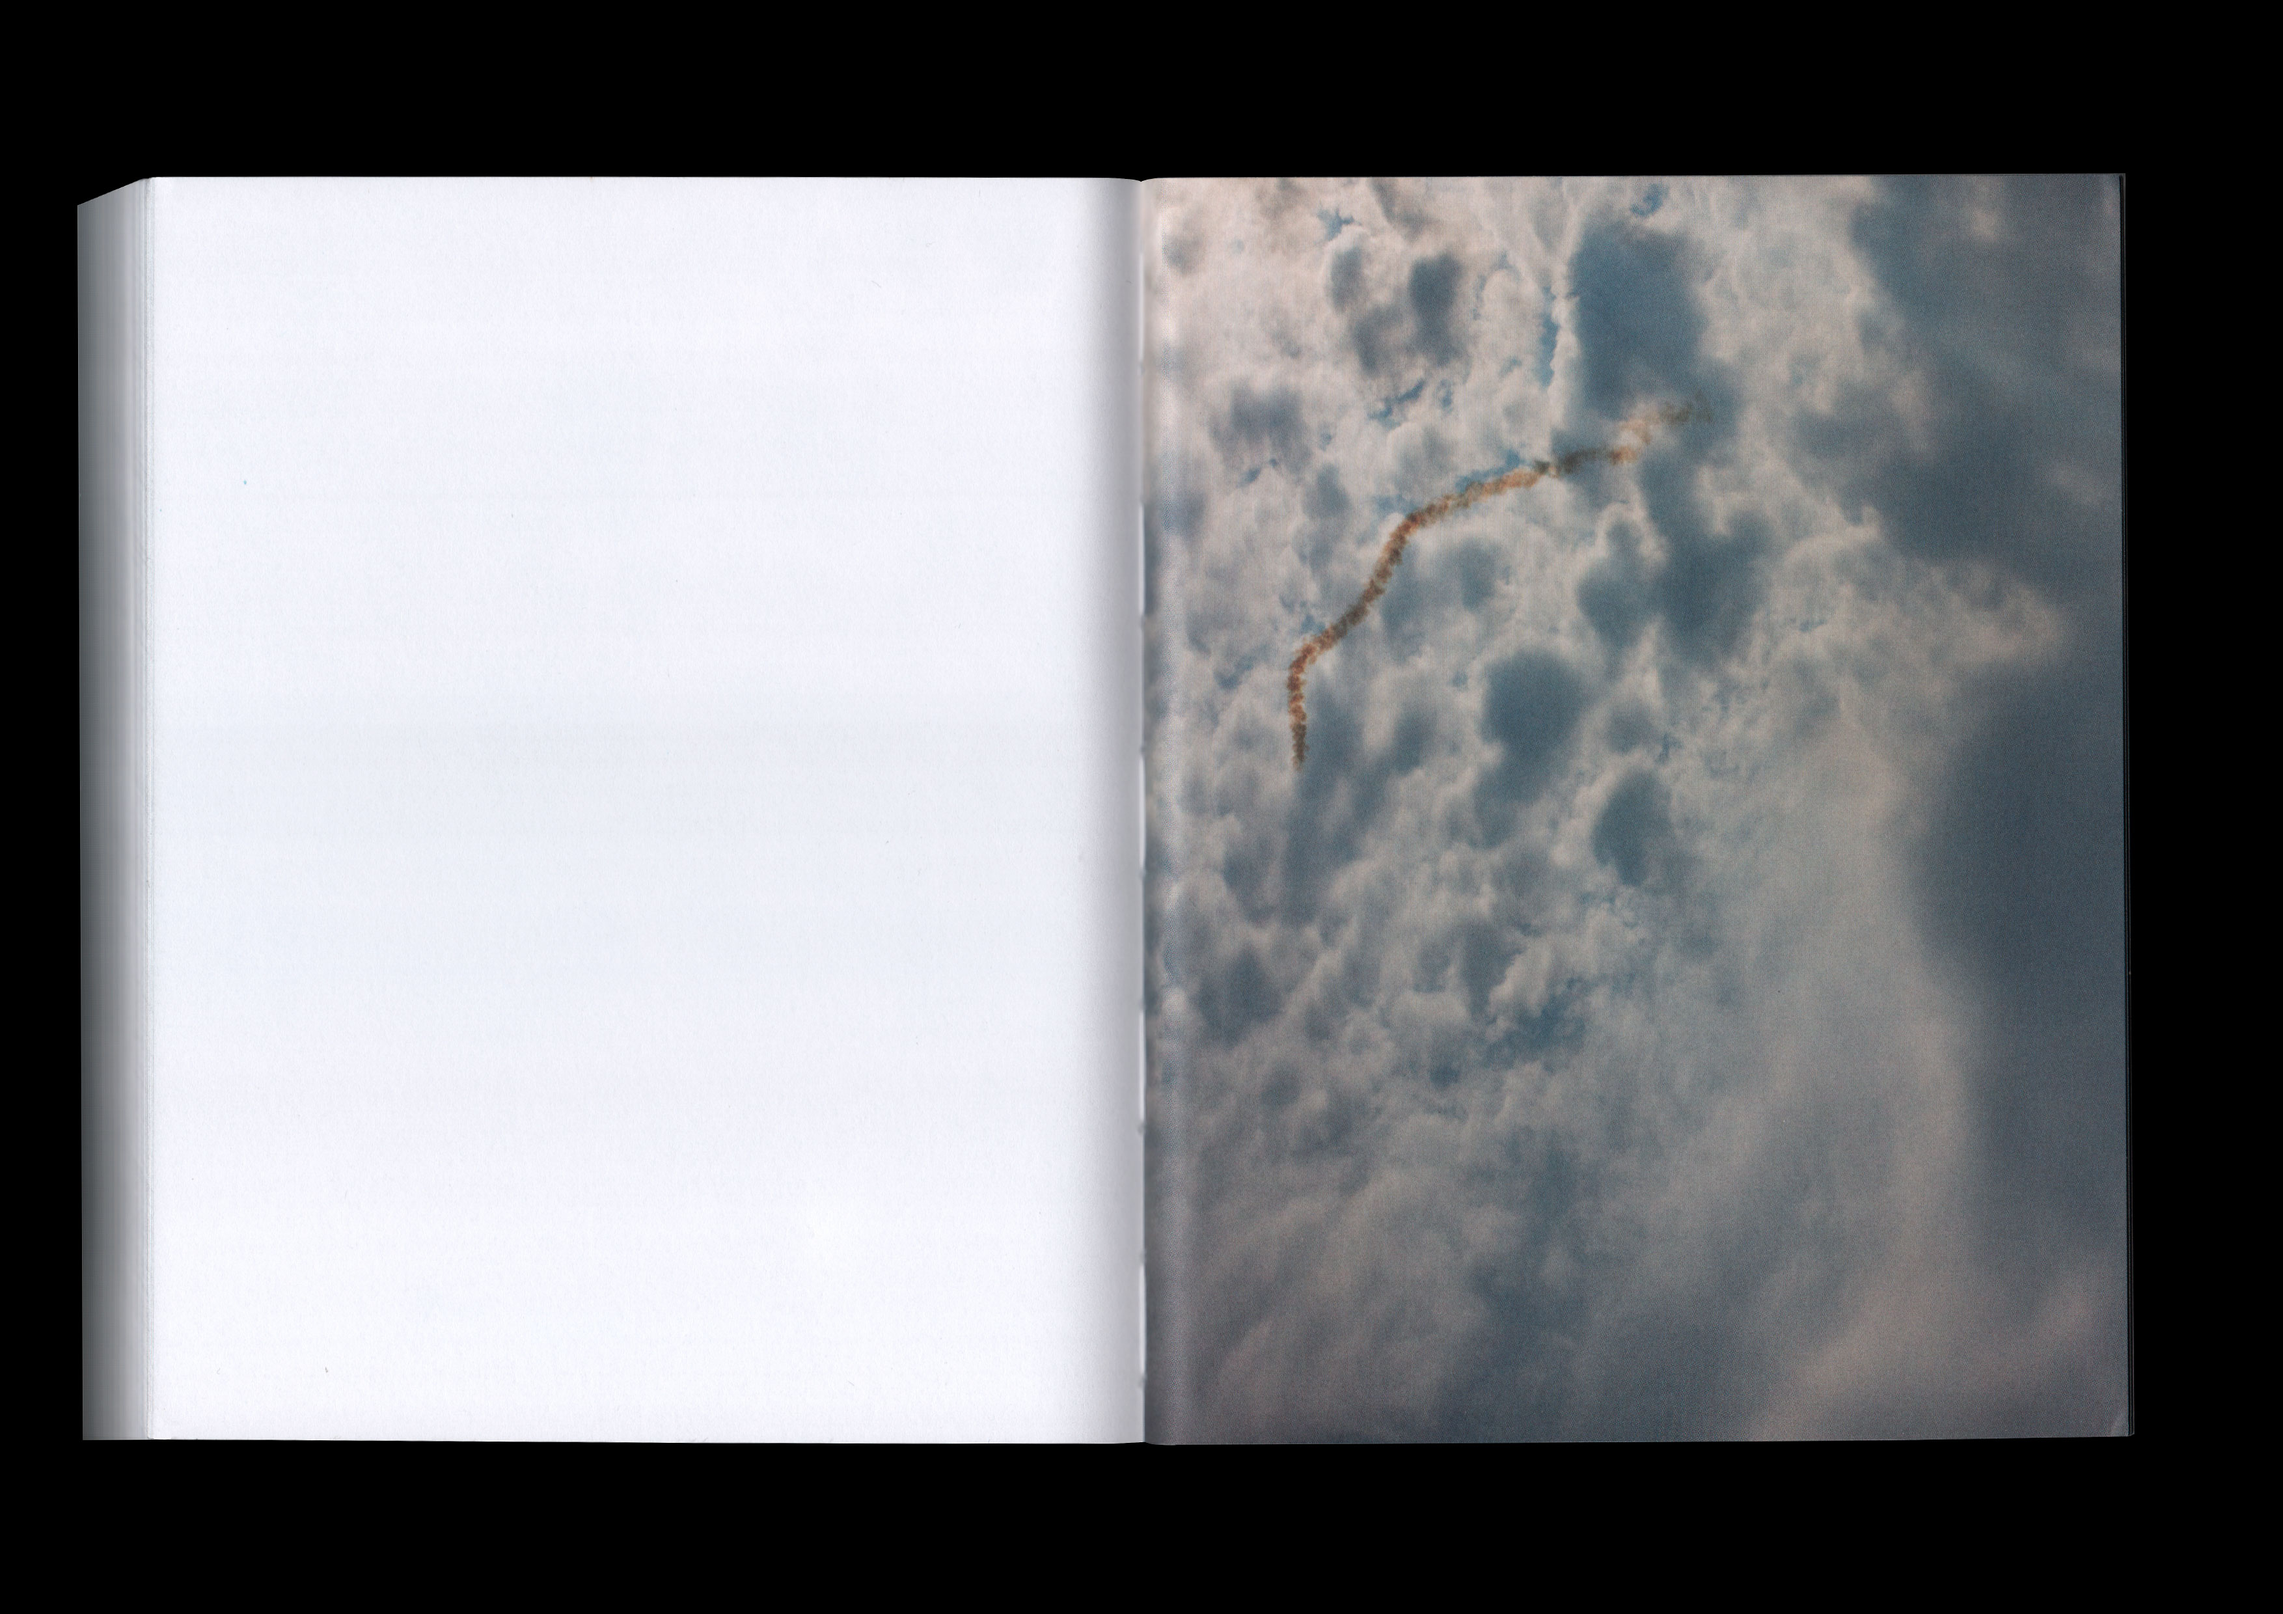
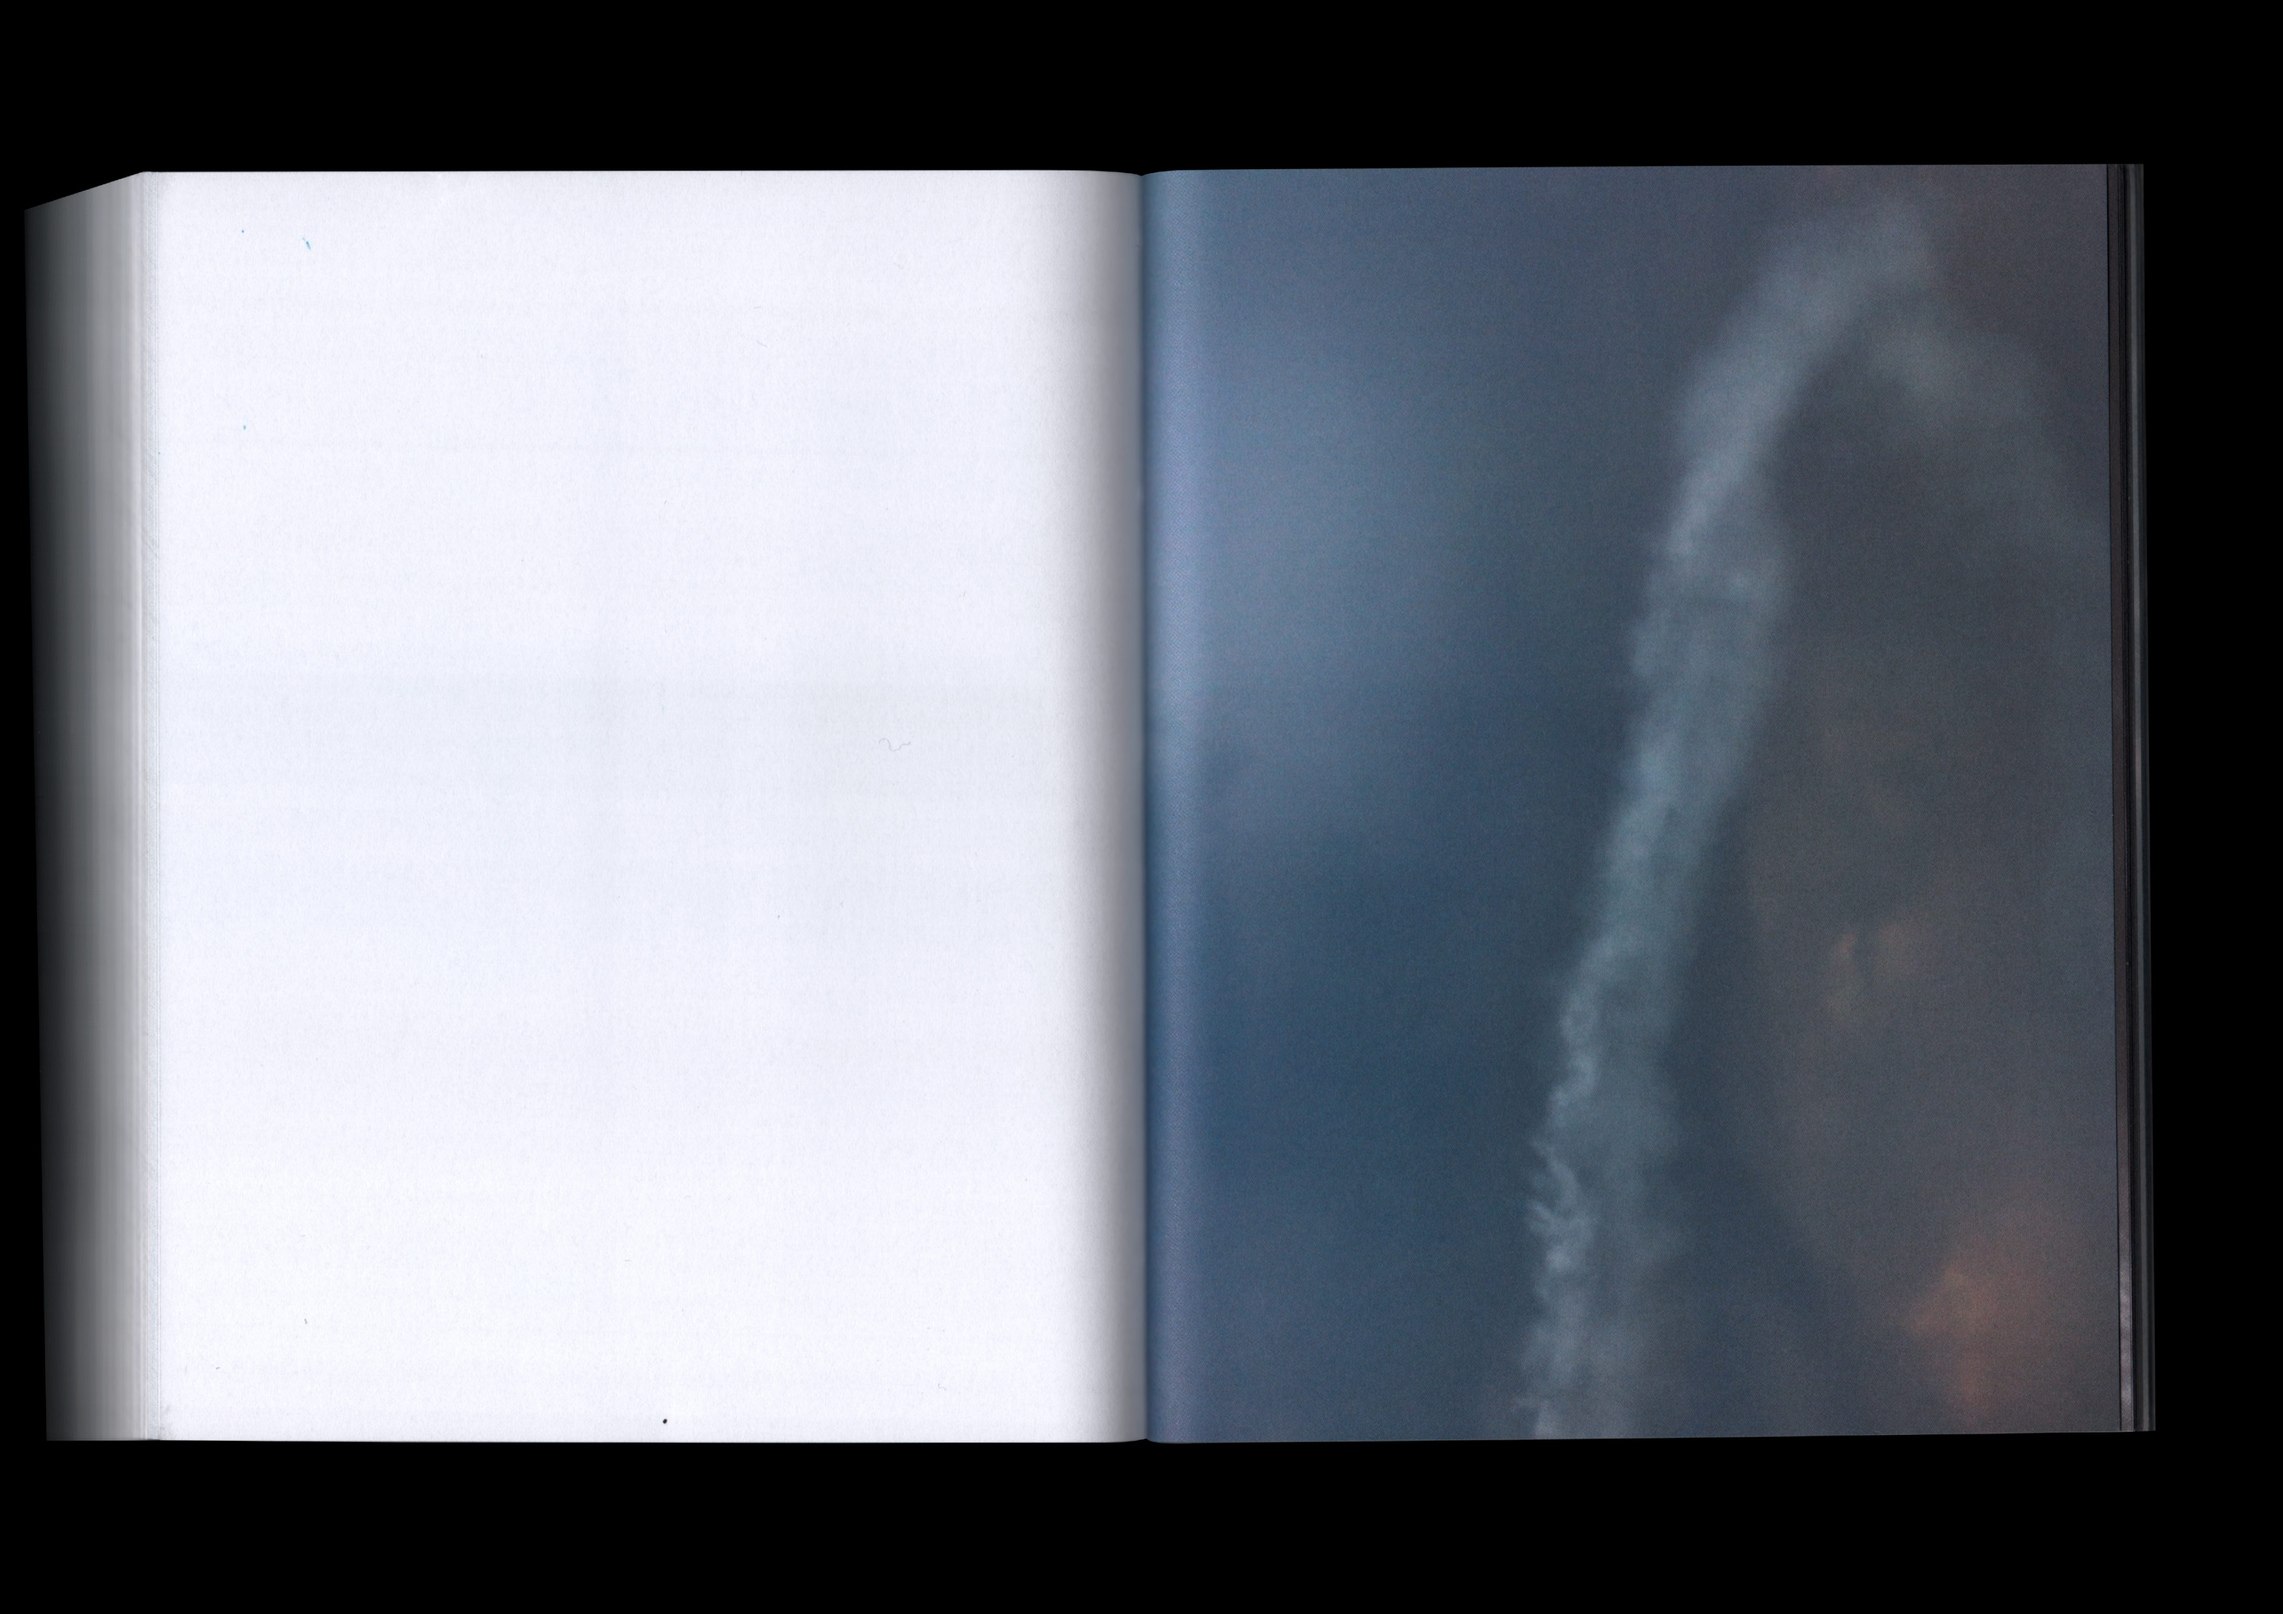
updates

diff --git a/index.html b/index.html
@@ -79,18 +79,17 @@
 			</article>
 
 		
-			<article class="project" id="04_Clarice_Lispector_At skrive_og_leve">
+			<article class="project" id="04_AT SKRIVE OG LEVE">
 
 				<div class="images">
-											<img data-src="projects/04_Clarice_Lispector_At skrive_og_leve/01_LISPECTOR.jpg" style="max-height: 650px">
-											<img data-src="projects/04_Clarice_Lispector_At skrive_og_leve/02_LISPECTOR.jpg" style="max-height: 650px">
-											<img data-src="projects/04_Clarice_Lispector_At skrive_og_leve/03_LISPECTOR.jpg" style="max-height: 650px">
-											<img data-src="projects/04_Clarice_Lispector_At skrive_og_leve/04_LISPECTOR.jpg" style="max-height: 650px">
-											<img data-src="projects/04_Clarice_Lispector_At skrive_og_leve/05_LISPECTOR.jpg" style="max-height: 650px">
-											<img data-src="projects/04_Clarice_Lispector_At skrive_og_leve/06_LISPECTOR.jpg" style="max-height: 650px">
-											<img data-src="projects/04_Clarice_Lispector_At skrive_og_leve/07_LISPECTOR.jpg" style="max-height: 650px">
-											<img data-src="projects/04_Clarice_Lispector_At skrive_og_leve/08_LISPECTOR.jpg" style="max-height: 650px">
-											<img data-src="projects/04_Clarice_Lispector_At skrive_og_leve/09_LISPECTOR.jpg" style="max-height: 650px">
+											<img data-src="projects/04_AT SKRIVE OG LEVE/01_LISPECTOR.jpg" style="max-height: 650px">
+											<img data-src="projects/04_AT SKRIVE OG LEVE/02_LISPECTOR.jpg" style="max-height: 650px">
+											<img data-src="projects/04_AT SKRIVE OG LEVE/03_LISPECTOR.jpg" style="max-height: 650px">
+											<img data-src="projects/04_AT SKRIVE OG LEVE/04_LISPECTOR.jpg" style="max-height: 650px">
+											<img data-src="projects/04_AT SKRIVE OG LEVE/05_LISPECTOR.jpg" style="max-height: 650px">
+											<img data-src="projects/04_AT SKRIVE OG LEVE/06_LISPECTOR.jpg" style="max-height: 650px">
+											<img data-src="projects/04_AT SKRIVE OG LEVE/07_LISPECTOR.jpg" style="max-height: 650px">
+											<img data-src="projects/04_AT SKRIVE OG LEVE/08_LISPECTOR.jpg" style="max-height: 650px">
 									</div>
 
 				<p class="description">Clarice Lispector: <em>At skrive og leve</em>. A selection of “crônicas” first published in the newspaper Jornal do Brasil between 1967–1973. Designed in collaboration with Orin Bristow. Translated by Tine Lykke Prado and Kristina Nya Glaffey. Edited by Astrid Willow Møldrup. Published by Basilisk. 2023</p>
@@ -121,13 +120,16 @@
 
 				<div class="images">
 											<img data-src="projects/06_Killer_Machine/01_Killer-Machine.jpg" style="max-height: 600px">
+											<img data-src="projects/06_Killer_Machine/02_Killer-Machine.jpg" style="max-height: 600px">
 											<img data-src="projects/06_Killer_Machine/03_Killer-Machine.jpg" style="max-height: 600px">
-											<img data-src="projects/06_Killer_Machine/04_Killer-Machine.jpg" style="max-height: 600px">
 											<img data-src="projects/06_Killer_Machine/05_Killer-Machine.jpg" style="max-height: 600px">
 											<img data-src="projects/06_Killer_Machine/06_Killer-Machine.jpg" style="max-height: 600px">
 											<img data-src="projects/06_Killer_Machine/07_Killer-Machine.jpg" style="max-height: 600px">
 											<img data-src="projects/06_Killer_Machine/08_Killer-Machine.jpg" style="max-height: 600px">
 											<img data-src="projects/06_Killer_Machine/09_Killer-Machine.jpg" style="max-height: 600px">
+											<img data-src="projects/06_Killer_Machine/10_Killer-Machine.jpg" style="max-height: 600px">
+											<img data-src="projects/06_Killer_Machine/11_Killer-Machine.jpg" style="max-height: 600px">
+											<img data-src="projects/06_Killer_Machine/12_Killer-Machine.jpg" style="max-height: 600px">
 									</div>
 
 				<p class="description">Paula Duvå: <em>Killer Machine (the sublime sky, clouds, camouflage smoke disrupting heat seeking missiles, fighter planes removed)</em>. Published by Disko Bay. 2023</p>
